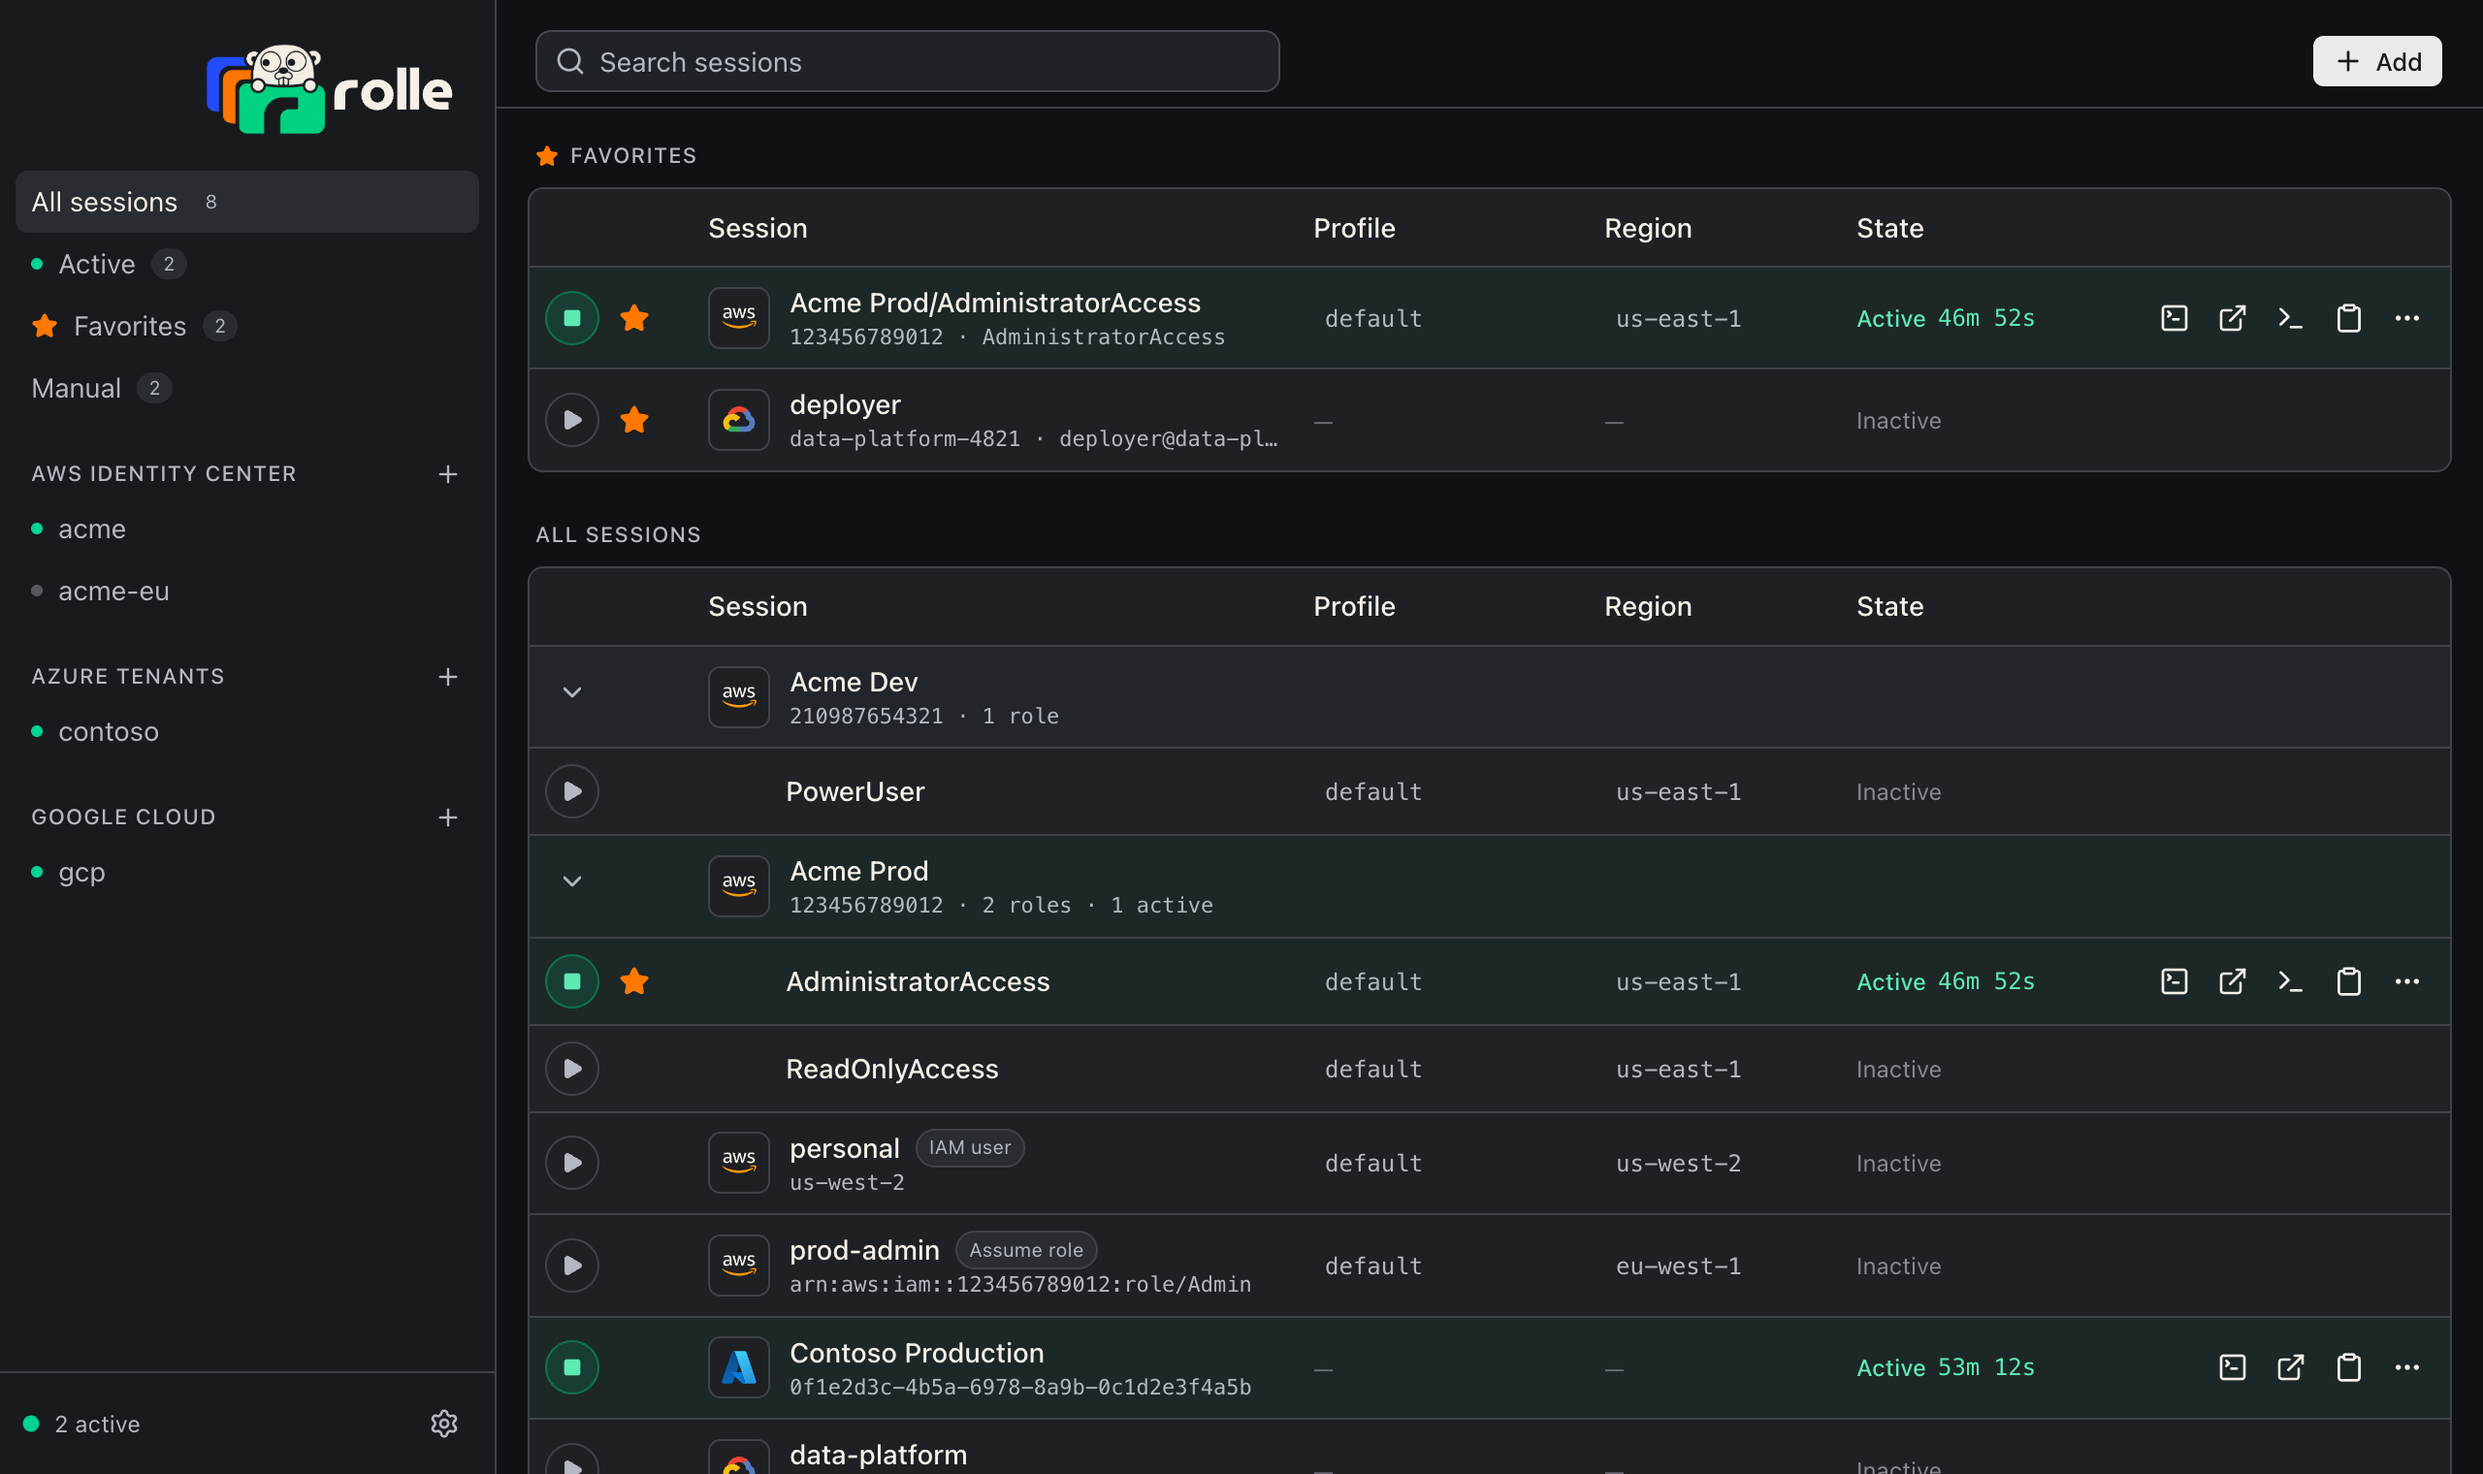
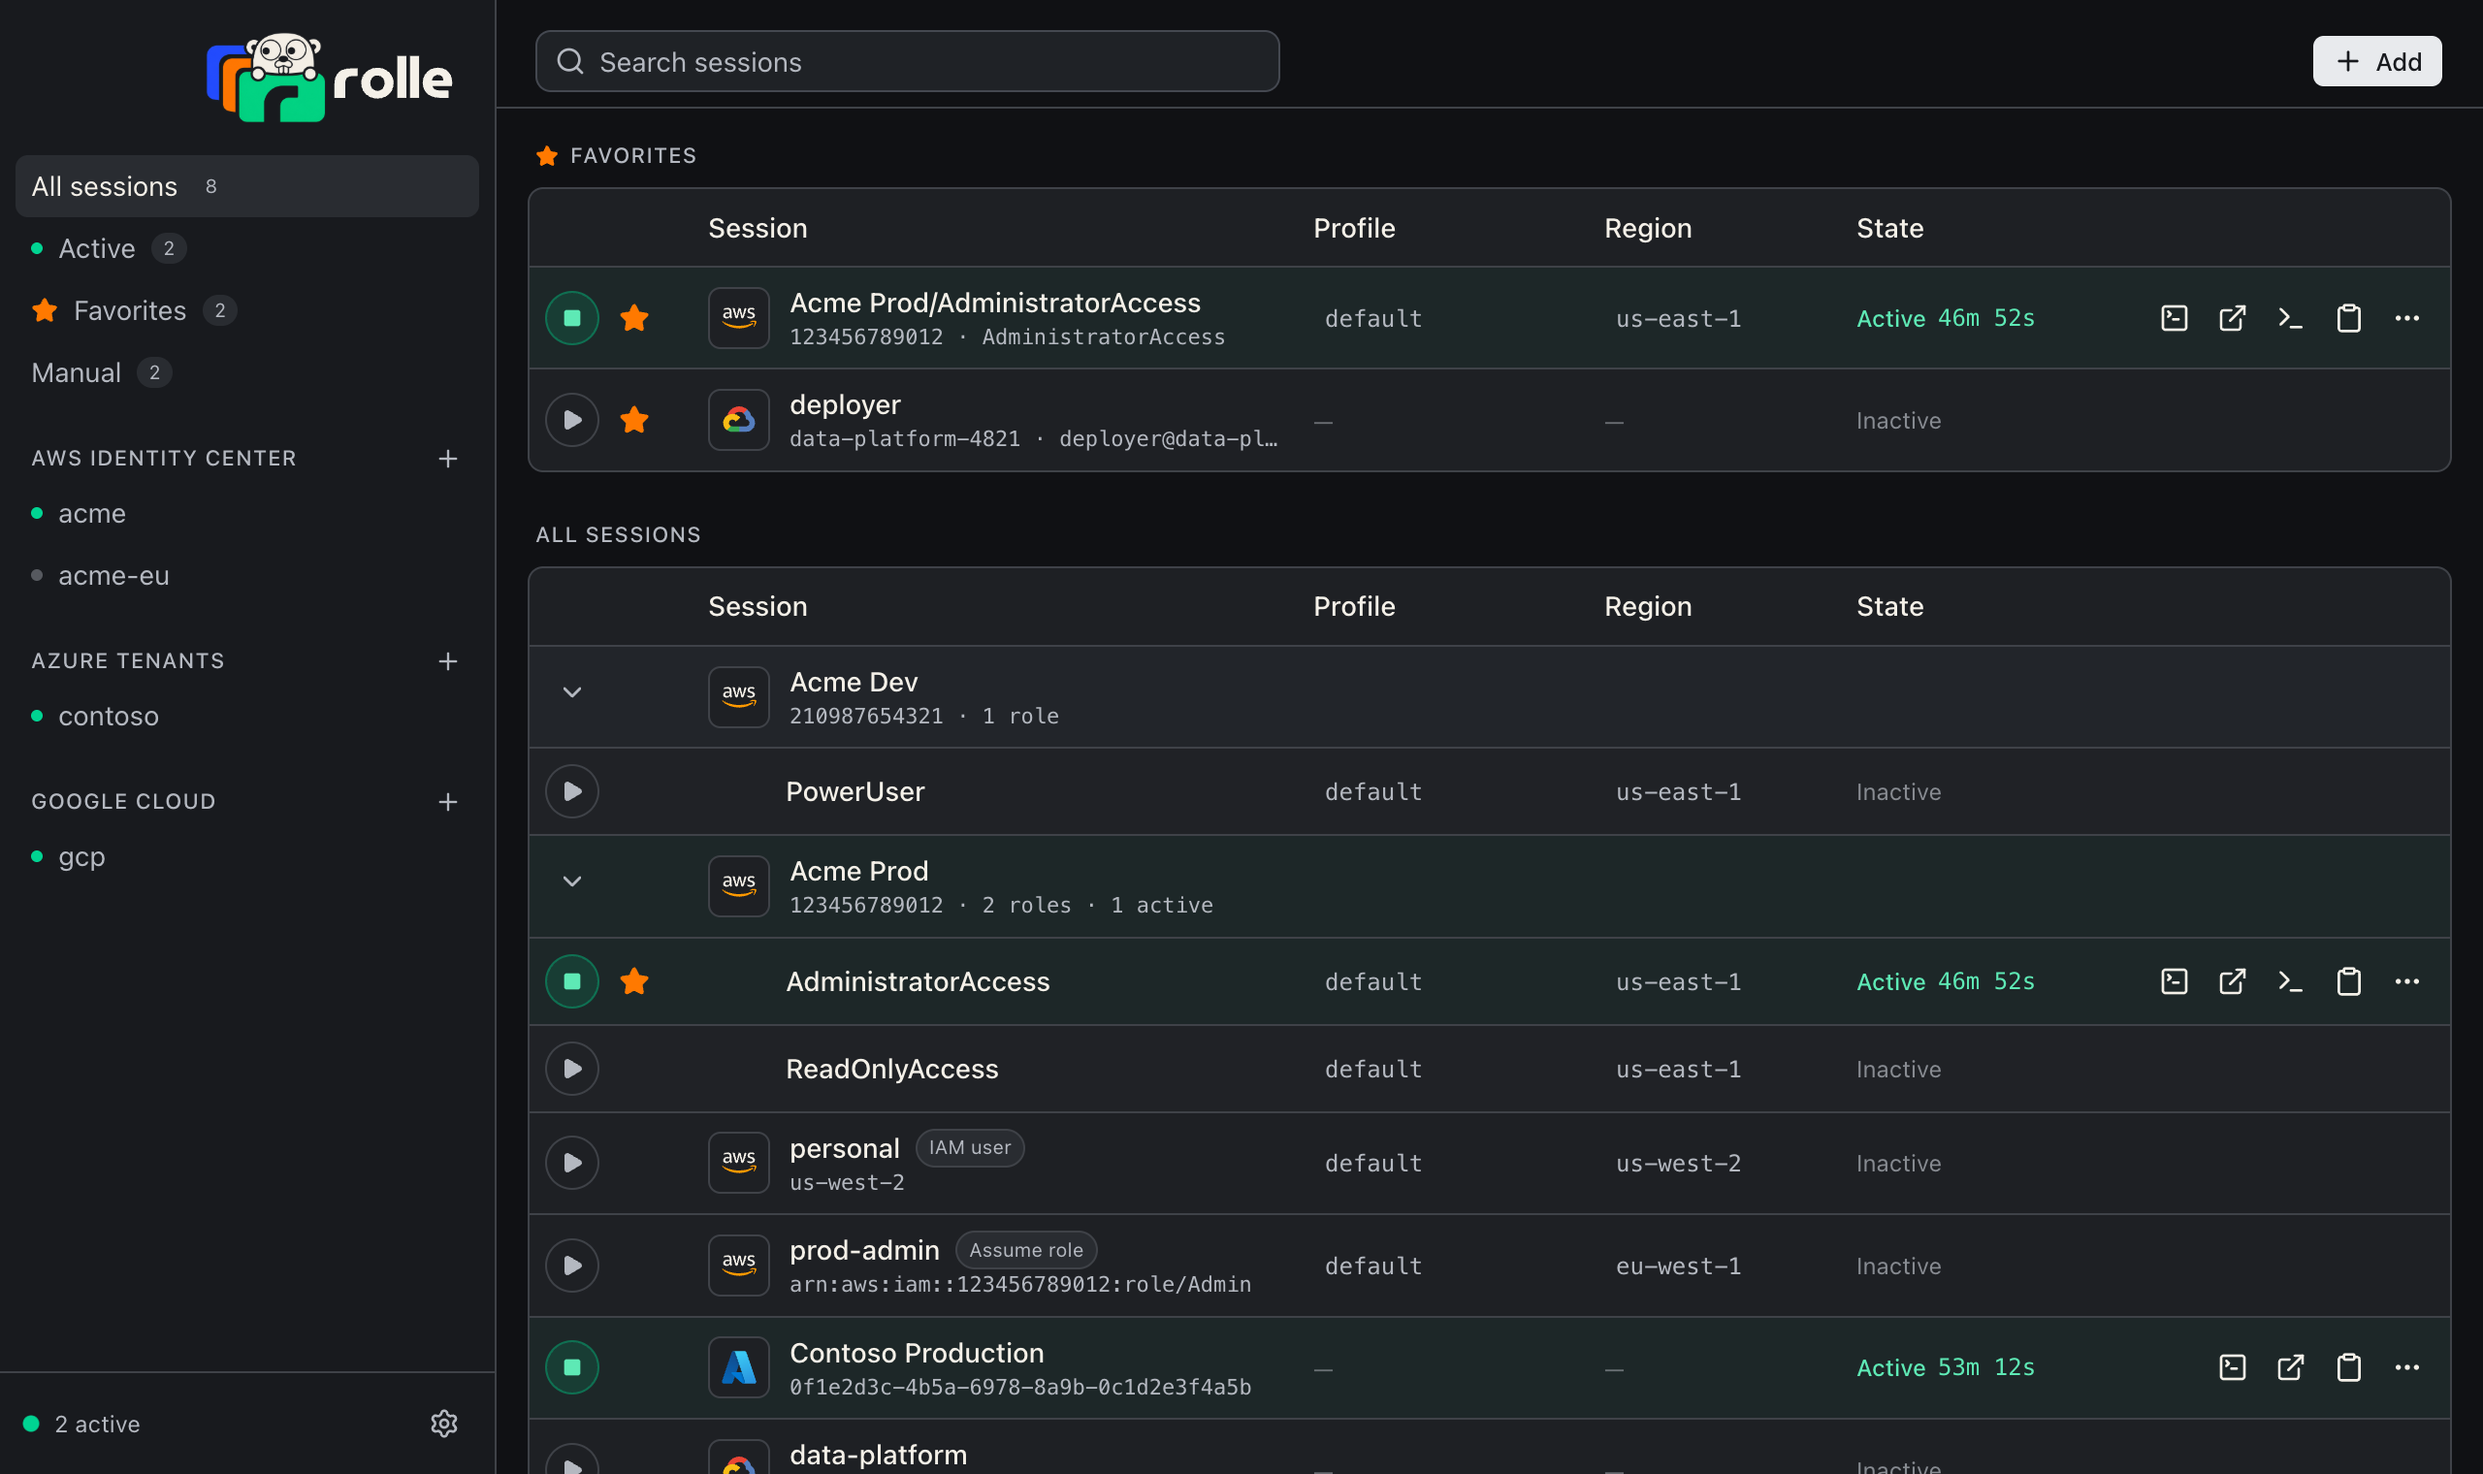
sidebar header: 72px, lockup clears the traffic lights
The drag strip beside the traffic lights stays empty, as in other macOS
sidebars. A shorter header keeps the gap small.

diff --git a/apps/desktop/frontend/src/components/dashboard/Dashboard.tsx b/apps/desktop/frontend/src/components/dashboard/Dashboard.tsx
@@ -162,7 +162,7 @@ export function Dashboard({ workspace }: { workspace: Workspace }) {
   return (
     <div className="flex h-full">
       <aside className="flex w-64 shrink-0 flex-col border-r bg-sidebar text-sidebar-foreground">
-        <div className="drag flex h-20 items-center justify-end px-5 pt-3">
+        <div className="drag flex h-[4.5rem] items-center justify-end px-5 pt-2">
           <GopherLockup className="h-12" />
         </div>
         <nav className="flex-1 space-y-4 overflow-y-auto px-2 py-2">
